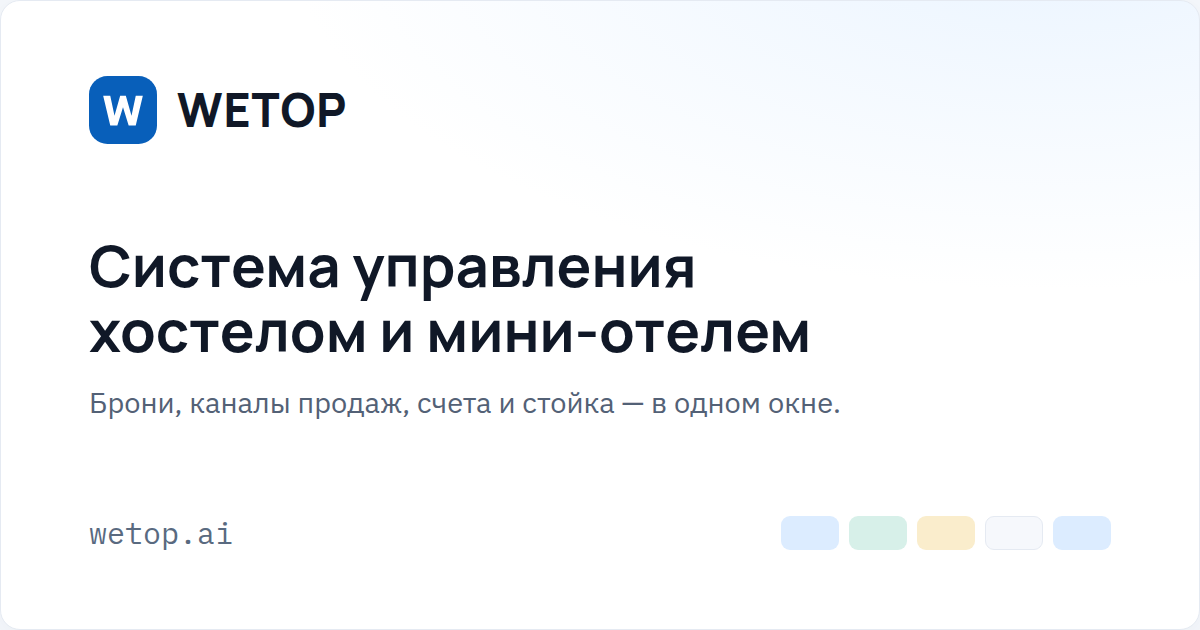
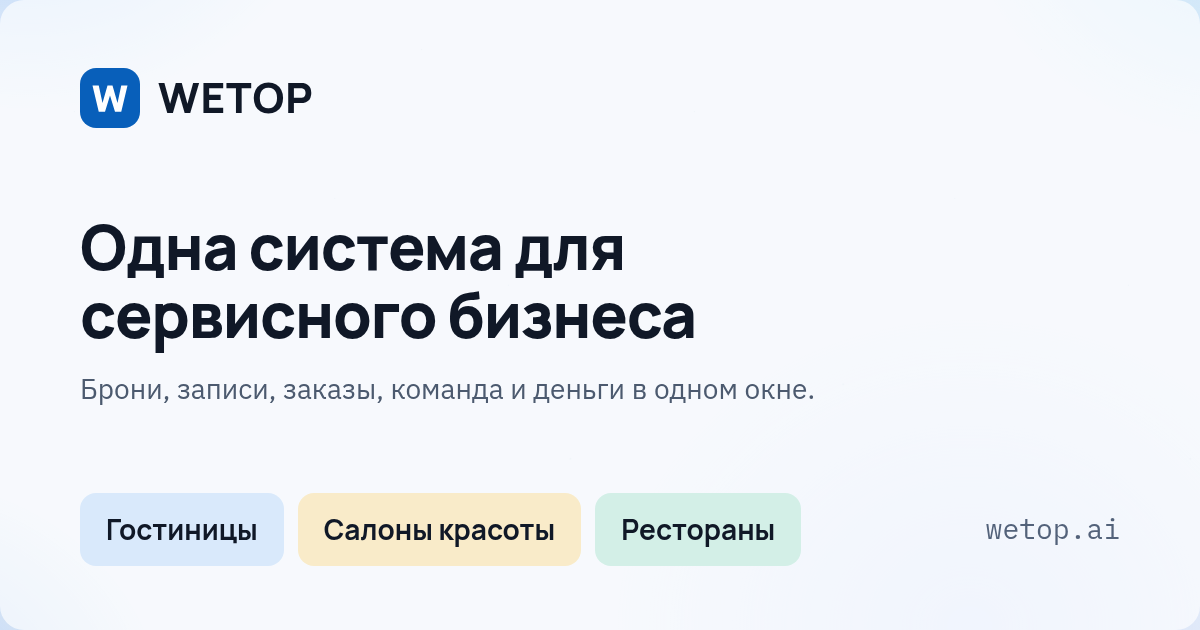
Превью ссылки wetop.ai: гостиницы, салоны красоты и рестораны (вариант А)

diff --git a/apps/site/src/lib/metadata.ts b/apps/site/src/lib/metadata.ts
@@ -26,7 +26,8 @@ export const TITLE_SEPARATOR = ' | ';
  * стилей сайта. Она перечисляется здесь, а не файлом-соглашением `opengraph-image.png`: страницы задают
  * `openGraph` целиком, и тогда Next подставляет картинку соглашения не везде — у `/blog/` её не оказалось.
  */
-const OG_IMAGE = { url: '/og.png', width: 1200, height: 630 };
+// `?v=` меняется при перерисовке: Telegram и WhatsApp иначе показывают старую картинку из кэша
+const OG_IMAGE = { url: '/og.png?v=2', width: 1200, height: 630 };
 
 /*
  * OpenGraph и canonical для страницы. Next сливает metadata слоёв неглубоко: `openGraph` страницы целиком
